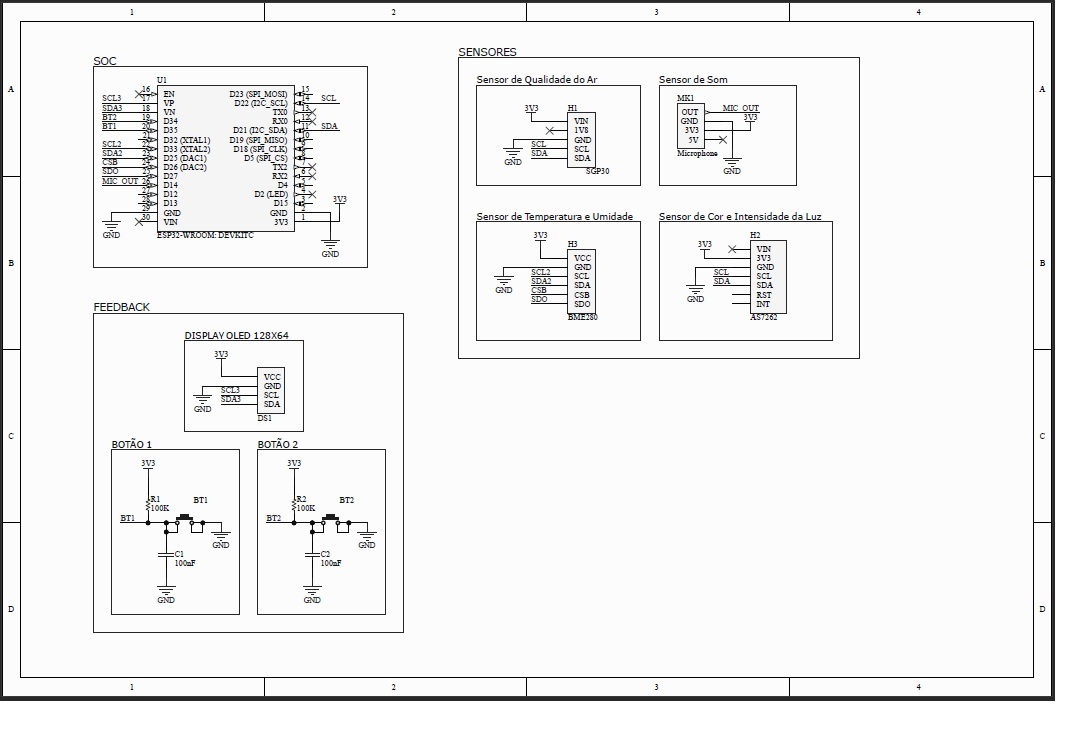
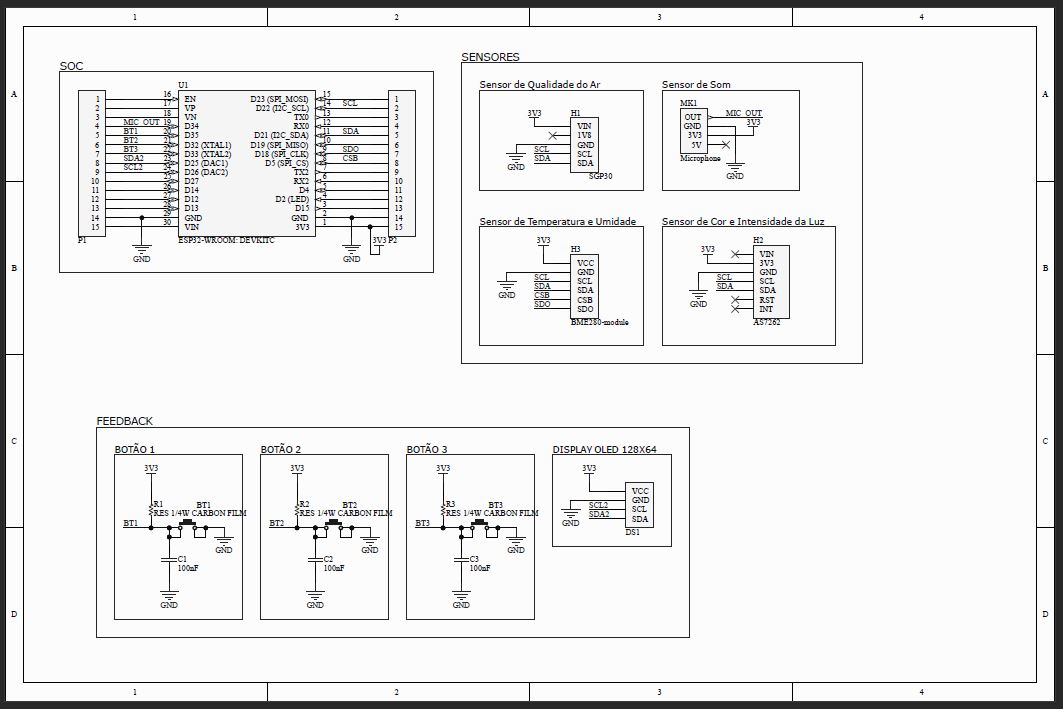
Update VOC tables to PPB data (introducao) Update hw, separate file in sections for hw, fw, sw (dev) Create section for results and tests (resultados)

diff --git a/chapters/dev.tex b/chapters/dev.tex
@@ -12,7 +12,9 @@ No \textbf{hardware} estará concentrado todo o desenvolvimento da eletrônica d
 O \textbf{firmware} será todo o software embarcado no dispositivo, desde a comunicação com o hardware até a comunicação sem fio, entre os dispositivos da rede e do dispositivo \textit{gateway} com a plataforma. 
 O \textbf{software}, por fim, trata do desenvolvimento relacionado à plataforma onde os dados serão armazenados e apresentados. 
 
-\section{Protótipo}
+Por fim, foi desenvolvido um case mecânico simples, impresso em 3D, para proteger os componentes. 
+
+\section{Hardware}
 
 A partir das especificações técnicas, foi elaborado um novo diagrama de blocos. 
 
@@ -39,7 +41,7 @@ A partir do diagrama de blocos, foi desenvolvido o esquema elétrico
 \label{fig:img2}
 \end{figure}
 
-\subsection{PCB - \textit{Printed Circuit Board}}
+\subsection{PCB \textit{Printed Circuit Board}}
 
 A partir do esquema elétrico foi feito um desenho de PCB (\textit{Printed Circuit Board}, ou Placa de Circuito Impresso). 
 
@@ -62,8 +64,12 @@ A placa foi pensada como \textit{Single Layer}, para ser fabricada em fibra por 
 \end{figure}
 
 
-\section{Firmware Sensores}
-\subsection{Funcionamento BME280}
+\section{Firmware}
+\subsection{Sensores}
+
+Bibliotecas.
+
+\subsubsection{BME280}
 
 O BME280 possui 3 modos de operação: \cite{bme280}
 \begin{itemize}
@@ -89,7 +95,13 @@ O \textit{datasheet} recomenda que, para aplicações do tipo monitoramento clim
 	\label{fig:time_bme280}
 \end{figure}
 
-\section{Validação da Rede Mesh}
+\subsubsection{AS7262}
+\subsubsection{SGP30}
+\subsubsection{Microfone}
+\subsection{Feedback}
+\subsubsection{LCD OLED}
+\subsection{Bluetooth}
+\subsubsection{Validação da Rede Mesh}
 
 Visando validar a parte de comunicação sem fio utilizando BLE Mesh do ESP32 para o uso no projeto, uma rede simples com apenas 3 dispositivos foi desenvolvida. Dentre os dispositivos, 2 deles eram constituídos pelo microcontrolador escolhido conectados a de 3 LEDs cada um, e o terceiro um \textit{smartphone}. 
 
@@ -121,11 +133,9 @@ O funcionamento da rede pode ser validado quando mensagens de \textit{On} e \tex
 
 Foi possível visualizar o a criação e o funcionamento de uma rede BLE Mesh na plataforma escolhida, bastando apenas modificar a lógica e parâmetros necessários para que as mensagens contenham os dados coletados pelos sensores do projeto e sejam enviadas para os dispositivos desejados.
 
-\section{Próximos Passos}
+\subsection{Wifi}
+\section{Software}
+\section{Mecânica}
 
-As próximas tarefas a serem feitas no desenvolvimento do projeto foram separadas em blocos, correspondendo às fases do projeto: testes individuais de funcionamento, protótipo e dispositivo piloto. 
-As tarefas podem ser vistas no Apêndice B. 
-
-Cada tarefa, de acordo com a área de desenvolvimento (hardware, firmware e software) pode ser vista no Apêndice C. 
 
 \end{document}

diff --git a/chapters/introducao.tex b/chapters/introducao.tex
@@ -128,18 +128,18 @@ De acordo com o \textit{Winsconsin Department of Health Services}\cite{Winsconsi
 \subsubsection{VOC}
 Compostos orgânicos voláteis, ou VOC (do inglês,\textit{Volatile organic compounds}, são partículas que ficam suspensas no ar, podendo vir de produtos (sintéticos ou naturais) utilizados no ambiente, como tintas, solventes, produtos de limpeza, perfumes que podem causar odor perceptível pelo ser humano\cite{AirQuality}.
 
-A concentração esperada é entre 0.2 e 0.5 mg/m3, e mesmo que nem todos os compostos presentes no ar sejam nocivos à saúde, por precaução é recomendado que estes sigam: \cite{tecam}
+A concentração esperada é entre 0.2 e 0.5 mg/m3, ou entre 62 e 150ppb, e mesmo que nem todos os compostos presentes no ar sejam nocivos à saúde, por precaução é recomendado que estes sigam: \cite{tecam}
 
-\begin{table}
+\begin{table}[h]
 \centering
 \begin{tabular}{ |c|c| }
 \hline
-Nível de TVOC [mg/m3]	&   Preocupação \\
+Nível de TVOC	&   Preocupação \\
 \hline
-Abaixo de 0.3 mg/m3	 &  Baixa \\
-0.3 a 0.5 mg/m3	&   Pouca \\
-0.5 a 1 mg/m3	 &  Moderada \\
-1 a 3 mg/m3	 &  Alta \\
+Abaixo de 93 ppb  &  Baixa \\
+93 a 150 ppb  &   Pouca \\
+150 a 310 ppb &  Moderada \\
+310 a 930 ppb &  Alta \\
 \hline
 \end{tabular}
 \caption{Tabela com as concentrações de TVOC e seu impacto }
@@ -147,19 +147,23 @@ Abaixo de 0.3 mg/m3	 &  Baixa \\
 \end{table}
 
 
-%A tabela feita por \cite{sensirion} mostra os níveis de TVOC aceitáveis (em ppb)
-%\begin{tabular}{ |c|c| } 
-%\hline
-%TVOC [ppb] & Hygienic Rating\\ 
-%\hline
-%2200 to 5500 & Unhealty \\ 
-%660 to 2200 & Poor \\ 
-%200 to 660 & Moderate \\
-%65 to 220 & Good \\
-%0 to 65 & Excellent \\
-%\hline
-%\end{tabular}
-%1 ppb = 1 mg/m3
+A tabela feita por \cite{sensirion} mostra os níveis de TVOC aceitáveis (em ppb)
 
+\begin{table}[t!]
+\centering
+\begin{tabular}{ |c|c| } 
+\hline
+TVOC [ppb] & Qualidade do Ar\\ 
+\hline
+2200 to 5500 & Insalubre \\ 
+660 to 2200 & Baixa \\ 
+200 to 660 & Moderada \\
+65 to 220 & Boa \\
+0 to 65 & Ideal \\
+\hline
+\end{tabular}
+\caption{Tabela com as concentrações de TVOC e a correspondente qualidade do ar }
+\label{table}
+\end{table}
 
 \end{document}

diff --git a/chapters/arte.tex b/chapters/arte.tex
@@ -8,7 +8,7 @@
 
 % !
 O artigo "Development of low-cost indoor air quality monitoring devices:
-Recent advancements", da Universidade do Porto\cite{IAQ_Compare} traz uma comparação dos principais projetos focados no monitoramento de qualidade do ar. A seguir, mostramos os estudos que possuem uma maior abrangência, não se restringindo apenas à qualidade do ar, mas monitorando ao menos dois indicadores de qualidade em ambientes internos (IEQ - Indoor Environment Quality). 
+Recent advancements", da Universidade do Porto \cite{IAQ_Compare} traz uma comparação dos principais projetos focados no monitoramento de qualidade do ar. A seguir, mostramos os estudos que possuem uma maior abrangência, não se restringindo apenas à qualidade do ar, mas monitorando ao menos dois indicadores de qualidade em ambientes internos (IEQ - \textit{Indoor Environment Quality}). 
 
 %!! Multipage table - include caption 
 
@@ -51,7 +51,7 @@ Recent advancements", da Universidade do Porto\cite{IAQ_Compare} traz uma compar
 & CO2 & Cloud storage \\ 
 & Som & Thingspeak platform \\ 
 \hline %Salamone et al.
-\multirow{4}{8em}{Salamone et al.\cite{SALAMONE2017351}-\cite{Salamone2017}} & Temperatura, Umidade & Arduino \\ %! 2 artigos (2017)
+\multirow{4}{8em}{Salamone et al.\cite{SALAMONE2017351}-\cite{Salamone2017}} & Temperatura, Umidade & Arduino \\ 
 & CO2, Vel. do Ar & On-board e cloud storage \\ 
 & Intensidade Luminosa & Wifi shield \\ 
 &  & BlueSmiRF (Bluetooth) \\ 
@@ -84,7 +84,6 @@ SoC \\
 \end{center}
 
 \subsection{Redes de sensores sem fio}
-
 %todo 
 
 \section{Tecnologias Relevantes} 

diff --git a/monografia.tex b/monografia.tex
@@ -9,6 +9,7 @@
 \usepackage{longtable}
 \usepackage{subfiles}
 \usepackage{multirow}
+\usepackage{float}
 
 % ========== Language options ==========
 \usepackage[brazil]{babel}
@@ -50,8 +51,9 @@
 %\memorialLD
 
 % Departamento e área de concentração
-\departamento{PCS - Computação e Sistemas Digitais}
+\departamento{PSI - Eletrônica e Sistemas}
 %\areaConcentracao{Área de concentração}
+
 
 % Local
 \local{São Paulo}
@@ -92,6 +94,9 @@ Soluções para o monitoramento de parâmetros que remetem à qualidade e confor
 
 \chapter{Desenvolvimento}
 \subfile{chapters/dev}
+
+% \chapter{Verificação do Projeto}
+% \subfile{chapters/resultados}
 
 \appendix
 \subfile{chapters/anexo}

diff --git a/chapters/specs.tex b/chapters/specs.tex
@@ -24,8 +24,8 @@ Para cada um dos quatro indicadores, temos as faixas necessárias de medição d
 	\end{itemize} 
 	\item Indicador do Ar
 	\begin{itemize}
-		\item $CO_{2}$: 100 a 40000ppm
-		\item VOC: 0 a 3 mg/$m^{3}$
+		\item $CO_{2}$: 100 a 40000 ppm
+		\item VOC: 0 a 1000 ppb
 	\end{itemize} 
 	\item Indicador Luminoso
 	\begin{itemize}

diff --git a/chapters/resultados.tex b/chapters/resultados.tex
@@ -1,0 +1,8 @@
+\documentclass[../monografia.tex]{subfiles}
+
+\begin{document}
+% Detalhar neste item os procedimentos realizados para os testes de funcionamento dos sub-sistemas, da inter-relação dos subsistemas e do sistema completo.
+
+\section{Resultados dos Testes}
+\section{Verificação dos requisitos}
+\end{document}
